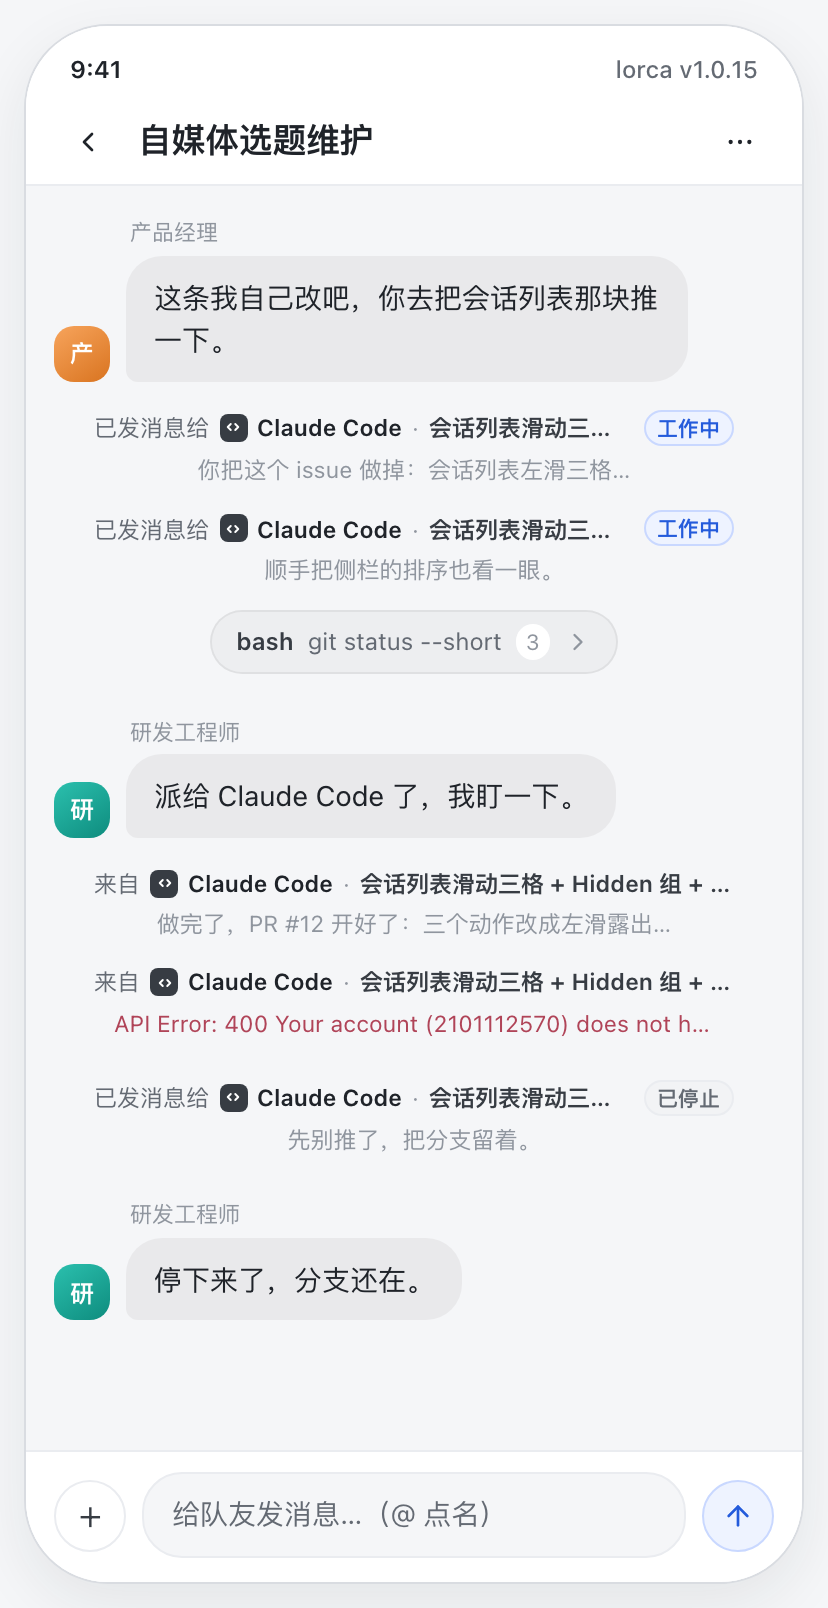
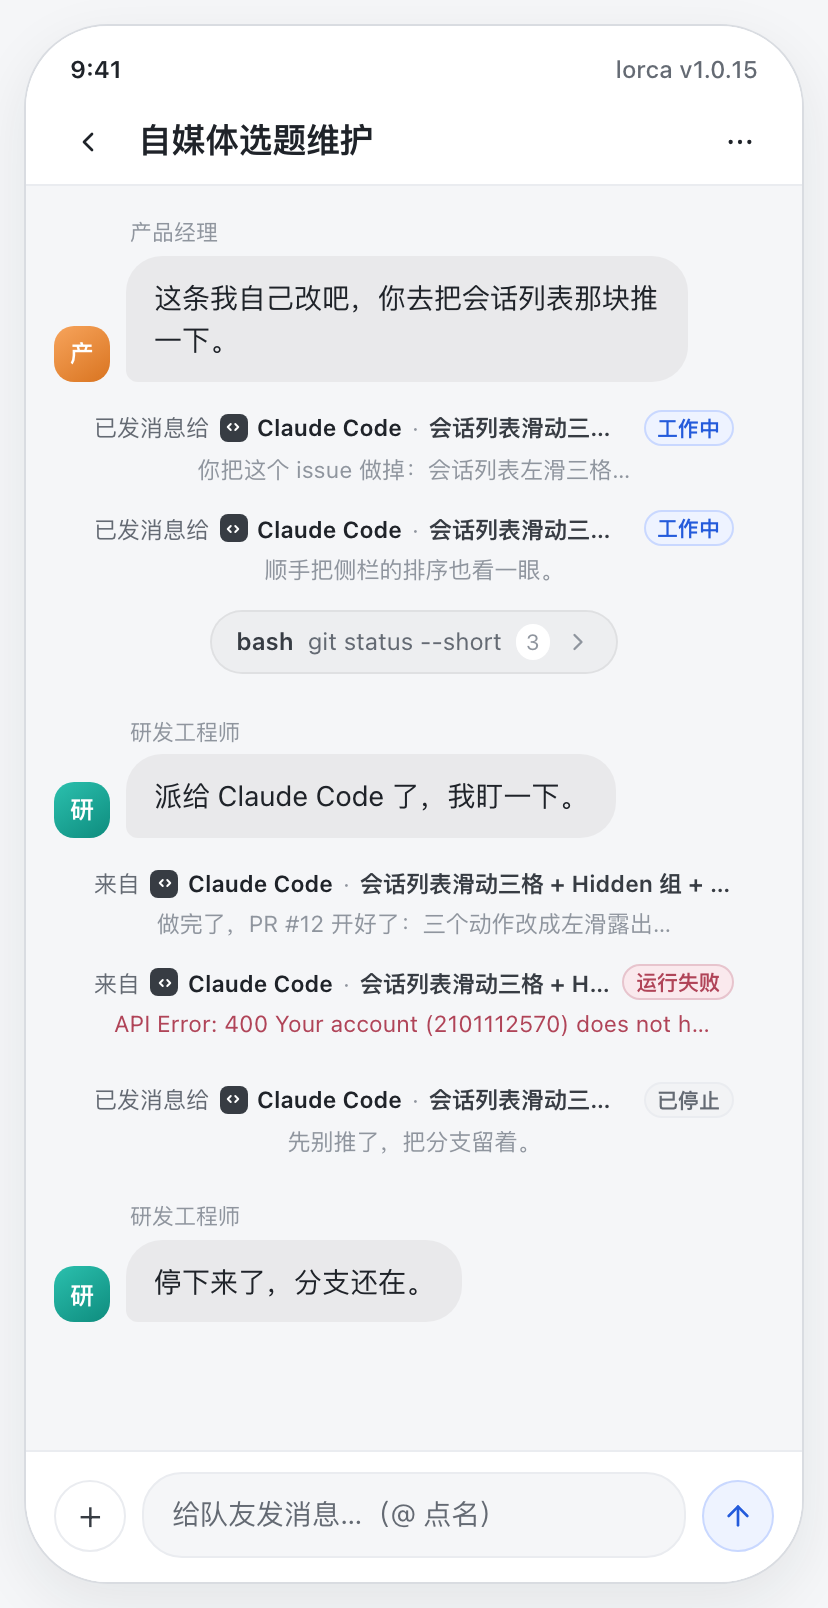
lorca-agent-rows: v2 —— 采纳研发三处（报告行只失败画状态词、发消息行反查不到不画、浮层降 90% 且缝隙不接收关闭、跟随文案改 5 秒）

diff --git a/lorca-agent-rows/index.html b/lorca-agent-rows/index.html
@@ -240,7 +240,7 @@
   @keyframes fadein { from { opacity: 0; } to { opacity: 1; } }
   .sheet {
     display: flex; flex-direction: column;
-    height: 92%; min-height: 0;
+    height: 90%; min-height: 0;
     background: var(--surface);
     border-top-left-radius: 20px; border-top-right-radius: 20px;
     box-shadow: 0 -8px 32px rgba(0, 0, 0, 0.18);
@@ -526,7 +526,7 @@
               <span class="agentrow-preview">做完了，PR #12 开好了：三个动作改成左滑露出…</span>
             </button>
 
-            <!-- 新增④：报告行 · failed —— 紧接同一位智能体，段中 6px；预览走失败色 -->
+            <!-- 新增④：报告行 · failed —— 紧接同一位智能体，段中 6px；只有失败时带「运行失败」词，预览走失败色 -->
             <button class="agentrow" type="button" data-probe="marker" data-kind="failed">
               <span class="agentrow-line">
                 <span class="agentrow-lead">来自</span>
@@ -536,6 +536,7 @@
                 <span class="agentname">Claude Code</span>
                 <span class="agentrow-sep">·</span>
                 <span class="agentrow-title">会话列表滑动三格 + Hidden 组 + 删除</span>
+                <span class="agentstate is-failed" data-probe="state">运行失败</span>
               </span>
               <span class="agentrow-preview is-failed">API Error: 400 Your account (2101112570) does not have…</span>
             </button>
@@ -647,7 +648,7 @@
                   </div>
                 </div>
                 <div class="sheet-foot">
-                  <span class="grow" data-probe="foot">分支 main · 跟随中（本机每 2 秒）</span>
+                  <span class="grow" data-probe="foot">分支 main · 跟随中 · 每 5 秒</span>
                   <button class="sheet-close" type="button">关闭</button>
                 </div>
               </div>
@@ -738,7 +739,7 @@ Tests: 42 passed, 42 total</div>
                   </div>
                 </div>
                 <div class="sheet-foot">
-                  <span class="grow" data-probe="foot">feat/list-swipe · +184 −37，涉及 6 个文件 · 已停止跟随</span>
+                  <span class="grow" data-probe="foot">feat/list-swipe · +184 −37，涉及 6 个文件 · 已结束，不再刷新</span>
                   <button class="sheet-close" type="button">完成</button>
                 </div>
               </div>
@@ -795,7 +796,7 @@ npm ERR!   npm run</div>
                   </div>
                 </div>
                 <div class="sheet-foot">
-                  <span class="grow" data-probe="foot">main · 已停止跟随（它已结束）</span>
+                  <span class="grow" data-probe="foot">main · 已结束，不再刷新</span>
                   <button class="sheet-close" type="button">关闭</button>
                 </div>
               </div>
@@ -867,7 +868,7 @@ Tests: 42 passed, 42 total</div>
                   </div>
                 </div>
                 <div class="sheet-foot">
-                  <span class="grow" data-probe="foot">分支 main · 跟随中（本机每 2 秒）</span>
+                  <span class="grow" data-probe="foot">分支 main · 跟随中 · 每 5 秒</span>
                   <button class="sheet-close" type="button">关闭</button>
                 </div>
               </div>
@@ -898,7 +899,13 @@ Tests: 42 passed, 42 total</div>
     </table>
     <p><b>两处与上游不同，是有意的，需要你点头：</b></p>
     <ul>
-      <li><b>标记行带状态词</b>（上游不带）。理由：上游靠 logo 认智能体、靠点开认状态；avatar 本期不引 logo 资产，状态词是「不开浮层也知道干到哪」的唯一出口。状态词六档照上游 <code>agentStatusWord</code> 的中文：工作中 / 需要处理 / 待审核 / 已完成 / 运行失败 / 已停止，只有启动行与发消息行有（报告行没有 <code>AgentRun</code>）。</li>
+      <li><b>标记行带状态词</b>（上游不带）。理由：上游靠 logo 认智能体、靠点开认状态；avatar 本期不引 logo 资产，状态词是「不开浮层也知道干到哪」的唯一出口。状态词六档照上游 <code>agentStatusWord</code> 的中文：工作中 / 需要处理 / 待审核 / 已完成 / 运行失败 / 已停止。**适用范围（研发核出，已收窄）**：
+        <ul>
+          <li><b>启动行</b>：六档齐全（它自己带 <code>AgentRun</code>）。</li>
+          <li><b>发消息行</b>：状态要同会话反查启动行（上游 App 同口径）；启动行不在已加载窗口时**没有状态词**，这时标记行不为此留空位。</li>
+          <li><b>报告行</b>：上游只给 <code>failed</code> 一个布尔，所以**只在失败时画一个「运行失败」词**，成功不加（这条行存在本身就是完成信号，每行都挂「已完成」只是噪声）；同时预览行走红色。</li>
+        </ul>
+      </li>
       <li><b>智能体名写进标记行</b>（上游只有 logo）。理由同上：没有 logo，名字就是身份。名字用产品名不翻译（Claude Code / Codex / OpenCode / pi / fx，上游 <code>model.rs:551</code> 同口径）。</li>
     </ul>
     <p><b>不再折进工具折叠块</b>：带 <code>agent</code> / <code>target_agent_id</code> 的行从折叠块里摘出来；块里剩下的仍是普通工具（<code>bash</code> 等），头部不会再有 <code>coding_agent</code> 这个英文原名。</p>
@@ -934,11 +941,12 @@ Tests: 42 passed, 42 total</div>
       <tr><td>字号</td><td>标记行与预览行 11.5px</td><td>avatar <code>apps/mobile/src/styles/lorca.css:2407</code> <code>.lorca-marker</code></td></tr>
       <tr><td>智能体标记尺寸</td><td>13px（标记行）/ 20px（浮层标题）</td><td>上游 <code>AgentScreen.tsx</code> / <code>transcript.tsx</code></td></tr>
       <tr><td>状态词</td><td>10.5px / 行高 16px / 圆角 999</td><td>本稿新增</td></tr>
-      <tr><td>浮层高度</td><td>屏高 92%（上游 <code>mobile/src/ui/AgentScreen.tsx</code> 全高，留出能点外面关的那条）</td><td>上游 <code>AgentScreen.tsx</code> + 本稿留缝</td></tr>
+      <tr><td>浮层高度</td><td>屏高 90%（360pt 屏上留约 74px，足够点外面关；上游是全高）</td><td>上游 <code>AgentScreen.tsx</code> + 本稿留缝</td></tr>
       <tr><td>浮层圆角 / 内边距</td><td>上圆角 20px / 左右 16px</td><td>avatar <code>apps/mobile/src/styles/lorca.css:3416</code> <code>.lorca-sheet</code></td></tr>
       <tr><td>步骤行</td><td>字号 14px / 行高 19px / 行间距 6px / 单行 24px</td><td>上游 <code>AgentScreen.tsx</code> styles</td></tr>
       <tr><td>提示词折叠</td><td>&gt; 6 行折叠，「显示更多 / 收起」</td><td>上游 <code>AgentScreen.tsx</code> <code>PROMPT_LINES = 6</code></td></tr>
       <tr><td>命令输出块</td><td>12px 等宽 / 最多 6 行后内部滚动</td><td>上游 <code>AgentScreen.tsx</code> <code>OutputBlock</code></td></tr>
+      <tr><td>跟随文案</td><td>工作中「跟随中 · 每 5 秒」/ 终态「已结束，不再刷新」/ 滚上去「已暂停 · 回到最新」</td><td>上游 <code>AgentScreen.tsx:27 REFRESH_MS = 5000</code>（手机端永远不是 Runner，所以是 5 秒）；后两句是本稿新增</td></tr>
     </table>
 
     <h3>5. 不做（issue 已定）</h3>
@@ -963,8 +971,8 @@ Tests: 42 passed, 42 total</div>
       <tr><td>3 居中标记行、不出现英文原名</td><td>② 屏五条标记行；① 屏是对照基线；探针核「② 屏文本无 <code>coding_agent</code>、① 屏有」</td></tr>
       <tr><td>4 点开详情、顶部有标题 / 状态行 / 停止 / 底部关闭</td><td>③ 屏（有停止无 PR）；④ 屏（有 PR 无停止）</td></tr>
       <tr><td>5 七种步骤 + 工具可展开</td><td>③④⑤ 屏：提示词 / 状态行 / 思考 / 它说的话 / 工具步骤 / 计划 / 错误行；④ 屏演示了展开的命令输出</td></tr>
-      <tr><td>6 2 秒 / 5 秒跟随、结束就停</td><td>③ 屏底部「跟随中（本机每 2 秒）」；④⑤ 屏「已停止跟随」——文案是给用户的可见承诺，节奏本身由研发实现</td></tr>
-      <tr><td>7 点外面 / 返回键关</td><td>四屏浮层都有 <code>backdrop</code> 层（点外面关）+ 顶部与底部两个关闭按钮；返回键走已有 <code>useBackLayer</code></td></tr>
+      <tr><td>6 2 秒 / 5 秒跟随、结束就停</td><td>③ 屏底部「跟随中 · 每 5 秒」；④⑤ 屏「已结束，不再刷新」——手机端永远不是 Runner，所以只有 5 秒这一档；节奏本身由研发实现</td></tr>
+      <tr><td>7 点外面 / 返回键关</td><td>四屏浮层都有 <code>backdrop</code> 层（点外面关）+ 顶部与底部两个关闭按钮；返回键走已有 <code>useBackLayer</code>。**浮层上方那条缝不接收关闭**（防误关，研发建议，已采纳）</td></tr>
       <tr><td>8 窄屏 360 不溢出、长命令截断可展开</td><td>⑥ 屏（360pt 壳）；探针核无横向溢出、长命令 ellipsis 且可展开</td></tr>
       <tr><td>9 白名单扩两个方法</td><td>不在 UI 稿范围（研发）</td></tr>
       <tr><td>10 列表预览可读</td><td>结论区第 3 段的口径表</td></tr>
@@ -972,6 +980,10 @@ Tests: 42 passed, 42 total</div>
     </table>
 
     <div class="callout">
+      研发核出的三处已改到稿子里：<b>报告行不画状态词</b>（只红色区分 failed）、
+      <b>发消息行反查不到启动行时没有状态词</b>、<b>浮层降到 90% 且上方那条缝不接收关闭</b>；
+      跟随文案改成「跟随中 · 每 5 秒 / 已结束，不再刷新 / 已暂停 · 回到最新」（手机端永远不是 Runner，2 秒那档写错了）。
+    </div>
       待你确认的两条口径：<b>①标记行带状态词</b>、<b>②标记行写智能体名</b>（都偏离上游，理由是不引 logo 资产）。
       你点头后我把这两条写进 issue #4 的验收标准，研发照此实现。
     </div>
